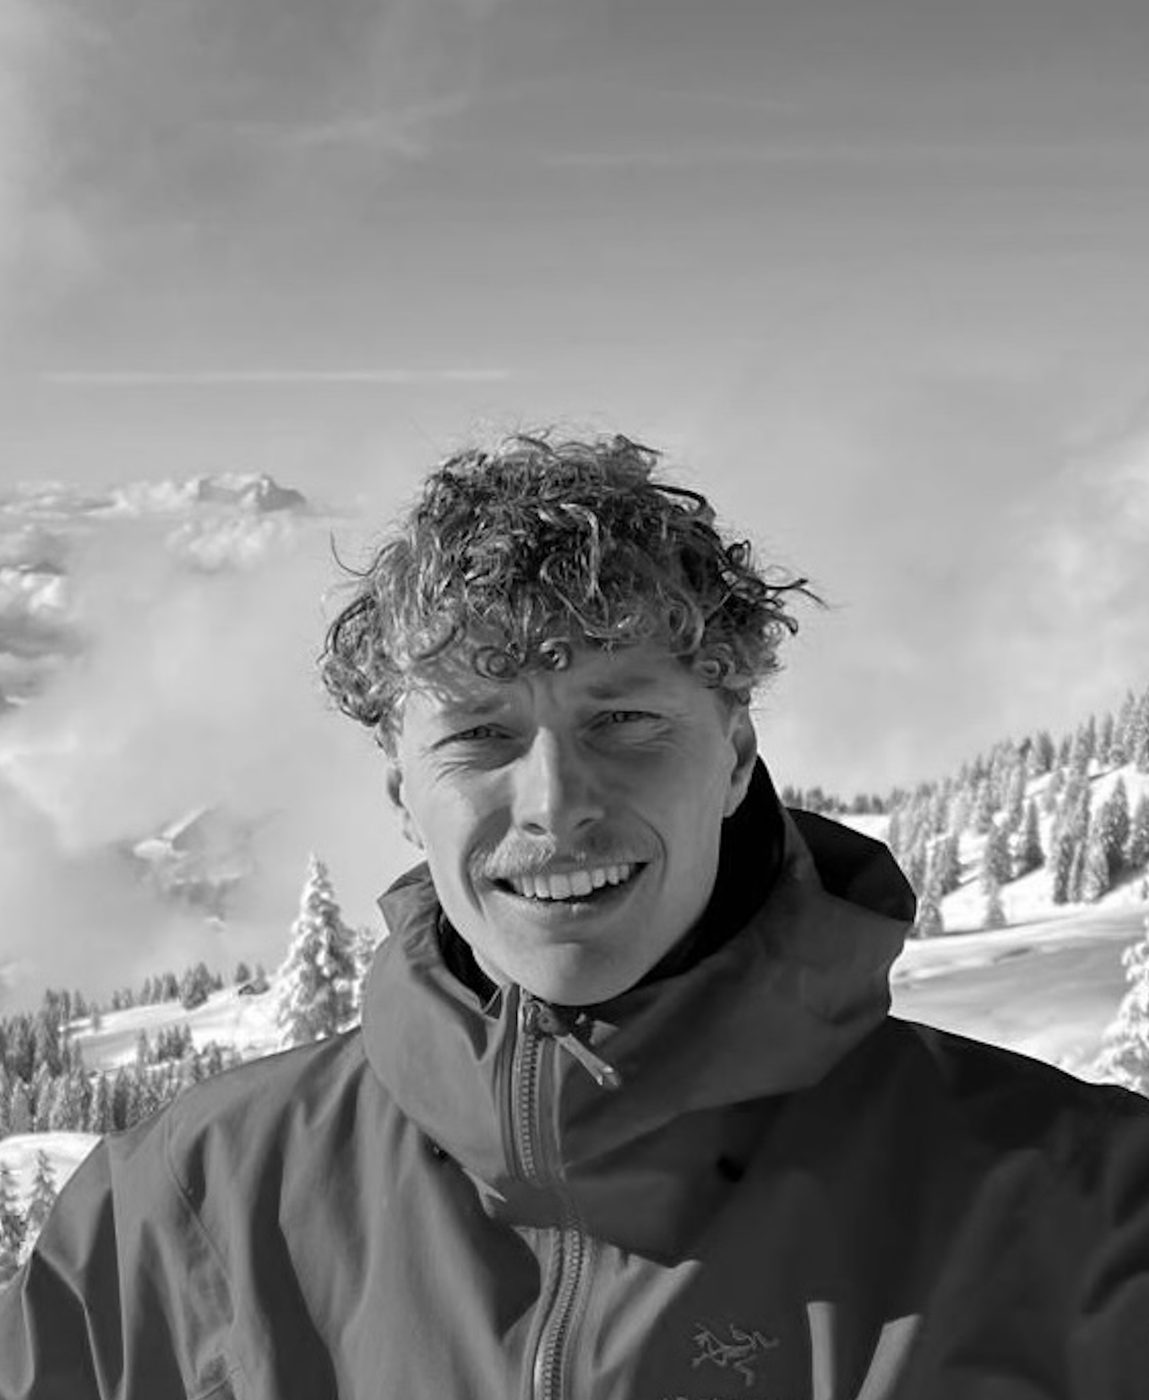
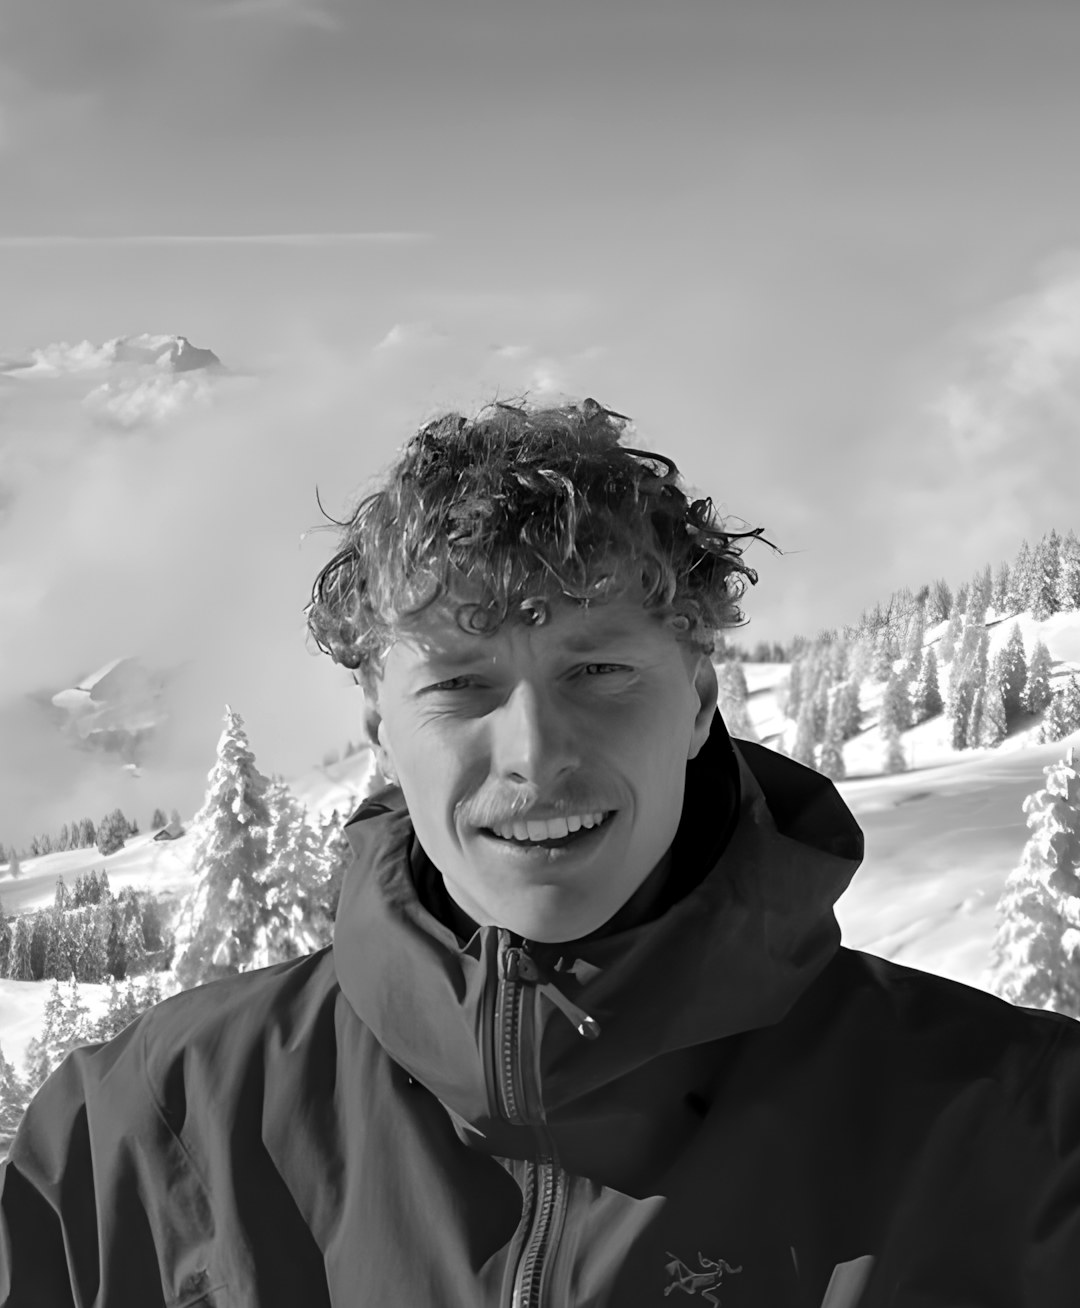
Sharper About portrait from the original photo
Claude-Session: https://claude.ai/code/session_01MqJvfbGa9hNo2X7ShjbNtN

diff --git a/about/index.html b/about/index.html
@@ -18,7 +18,7 @@
 
 <header class="head">
   <div>
-    <img class="portrait" src="../assets/about/portrait.jpg" alt="Tim Aebersold">
+    <img class="portrait" src="../assets/about/portrait.jpg?v=2" alt="Tim Aebersold">
   </div>
   <div>
     <p>I am currently pursuing a PhD at ETH Zurich’s Artificial Intelligence in Engineering Design Lab.</p>
